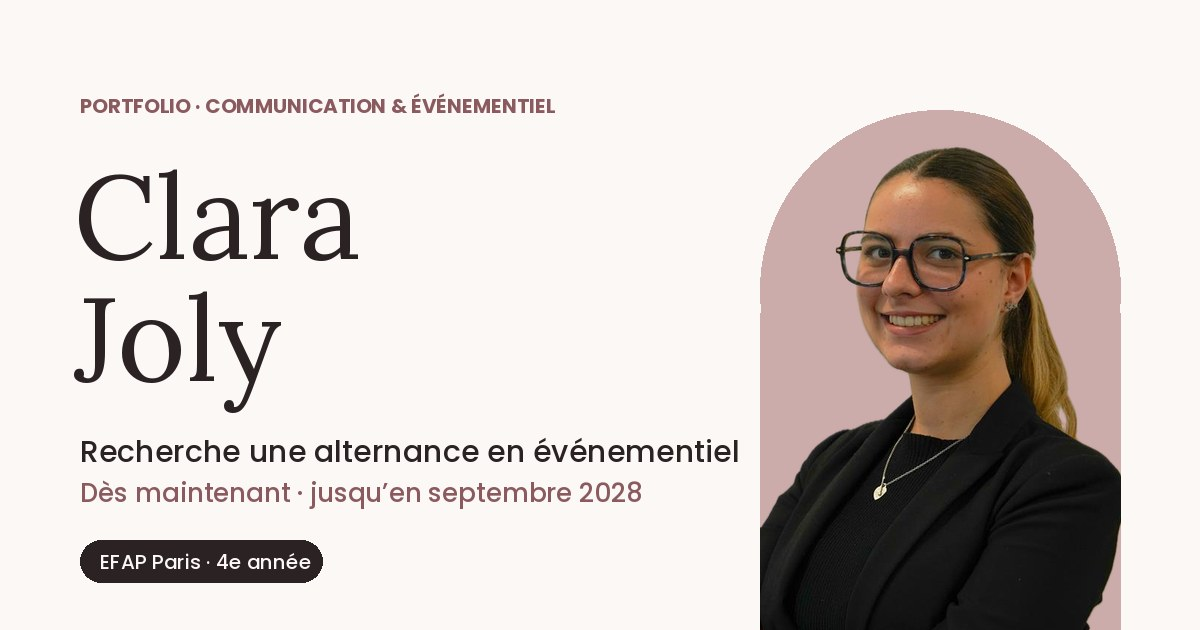
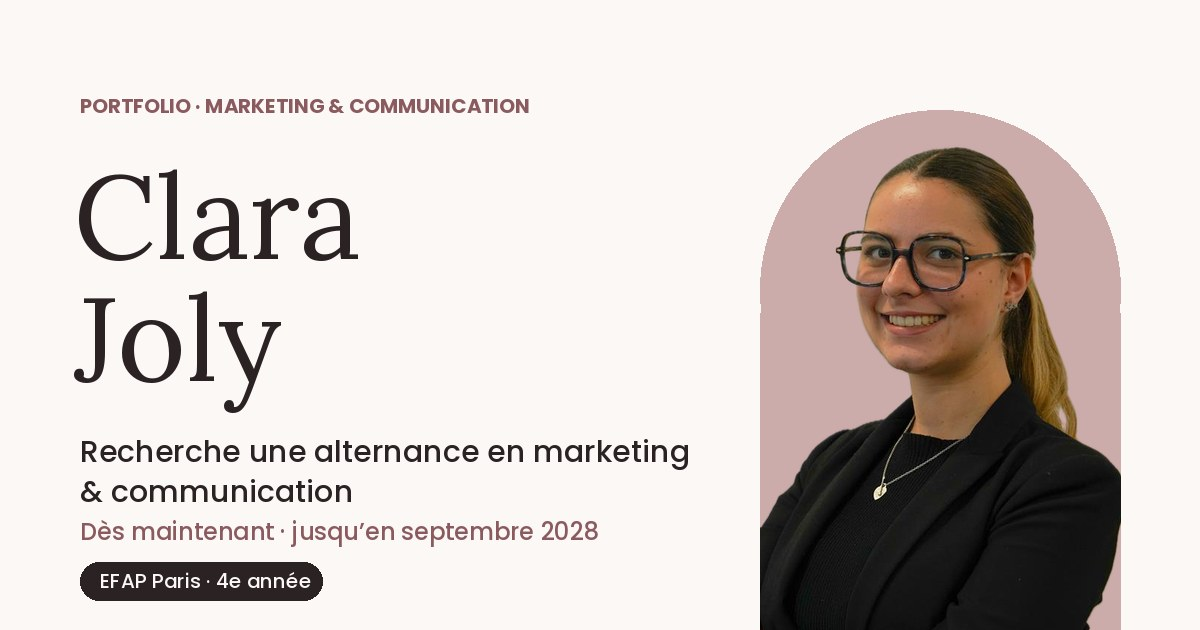
Add files via upload

Changed region(s): [[0.0617, 0.6937, 0.6167, 0.9651], [0.1542, 0.1508, 0.4625, 0.181]]

diff --git a/index.html b/index.html
@@ -4,10 +4,10 @@
 <meta charset="UTF-8">
 <meta name="viewport" content="width=device-width, initial-scale=1.0, viewport-fit=cover">
 <title>Clara Joly Portfolio</title>
-<meta name="description" content="Portfolio de Clara Joly — événementiel, communication et community management. Étudiante en 4e année à l'EFAP Paris, en alternance chez Astonfly.">
+<meta name="description" content="Portfolio de Clara Joly — marketing, communication, community management et événementiel. Étudiante en 4e année à l'EFAP Paris, en alternance chez Astonfly.">
 <meta property="og:type" content="website">
 <meta property="og:title" content="Clara Joly · Portfolio">
-<meta property="og:description" content="Recherche une alternance en événementiel, dès maintenant et jusqu’en septembre 2028. Étudiante en 4e année à l’EFAP Paris.">
+<meta property="og:description" content="Recherche une alternance en marketing et communication, dès maintenant et jusqu’en septembre 2028. Étudiante en 4e année à l’EFAP Paris.">
 <meta property="og:url" content="https://clara-joly.vercel.app/">
 <meta property="og:image" content="https://clara-joly.vercel.app/og-image.jpg">
 <meta property="og:image:width" content="1200">
@@ -450,18 +450,18 @@ section.block + section.block{border-top:1px solid var(--line)}
 
 <main>
 <div class="marquee" aria-hidden="true">
-  <div class="marquee-track"><div class="mq-group"><span class="mq-word">Communication</span><span class="mq-sep"></span><span class="mq-word">Marketing</span><span class="mq-sep"></span><span class="mq-word">Événementiel</span><span class="mq-sep"></span></div><div class="mq-group"><span class="mq-word">Communication</span><span class="mq-sep"></span><span class="mq-word">Marketing</span><span class="mq-sep"></span><span class="mq-word">Événementiel</span><span class="mq-sep"></span></div><div class="mq-group"><span class="mq-word">Communication</span><span class="mq-sep"></span><span class="mq-word">Marketing</span><span class="mq-sep"></span><span class="mq-word">Événementiel</span><span class="mq-sep"></span></div><div class="mq-group"><span class="mq-word">Communication</span><span class="mq-sep"></span><span class="mq-word">Marketing</span><span class="mq-sep"></span><span class="mq-word">Événementiel</span><span class="mq-sep"></span></div></div>
+  <div class="marquee-track"><div class="mq-group"><span class="mq-word">Marketing</span><span class="mq-sep"></span><span class="mq-word">Communication</span><span class="mq-sep"></span><span class="mq-word">Digital</span><span class="mq-sep"></span><span class="mq-word">Événementiel</span><span class="mq-sep"></span></div><div class="mq-group"><span class="mq-word">Marketing</span><span class="mq-sep"></span><span class="mq-word">Communication</span><span class="mq-sep"></span><span class="mq-word">Digital</span><span class="mq-sep"></span><span class="mq-word">Événementiel</span><span class="mq-sep"></span></div><div class="mq-group"><span class="mq-word">Marketing</span><span class="mq-sep"></span><span class="mq-word">Communication</span><span class="mq-sep"></span><span class="mq-word">Digital</span><span class="mq-sep"></span><span class="mq-word">Événementiel</span><span class="mq-sep"></span></div><div class="mq-group"><span class="mq-word">Marketing</span><span class="mq-sep"></span><span class="mq-word">Communication</span><span class="mq-sep"></span><span class="mq-word">Digital</span><span class="mq-sep"></span><span class="mq-word">Événementiel</span><span class="mq-sep"></span></div></div>
 </div>
 
 <section class="hero" id="accueil">
   <div class="wrap hero-grid">
     <div>
-      <p class="eyebrow">Portfolio · Communication &amp; Événementiel</p>
+      <p class="eyebrow">Portfolio · Marketing &amp; Communication</p>
       <h1>Clara<br>Joly</h1>
-      <p class="role">Recherche une alternance en événementiel <br><em>Jusqu’en septembre 2028</em></p>
+      <p class="role">Recherche une alternance en marketing &amp; communication <br><em>Jusqu’en septembre 2028</em></p>
     </div>
     <div class="hero-side">
-      <p class="about">Étudiante de 21 ans en 4ᵉ année à l’EFAP Paris en Communication &amp; Marketing, je suis actuellement en alternance et souhaite poursuivre mon parcours dans le secteur de l’événementiel jusqu’en septembre 2028.</p>
+      <p class="about">Étudiante de 21 ans en 4ᵉ année à l’EFAP Paris en Communication &amp; Marketing, je suis actuellement en alternance et souhaite poursuivre mon parcours en marketing et communication jusqu’en septembre 2028.</p>
       <div class="facts">
         <div class="fact"><b>Dès maintenant</b><span>Disponible pour démarrer</span></div>
         <div class="fact"><b>3 sem. / 1 sem.</b><span>Rythme entreprise / école</span></div>
@@ -485,7 +485,7 @@ section.block + section.block{border-top:1px solid var(--line)}
     <ol>
       <li><a data-go="a-propos" role="link" tabindex="0"><span class="n">01</span><span><span class="t">À propos</span><span class="d">Qui je suis, mon parcours, mes objectifs</span></span></a></li>
       <li><a data-go="experiences" role="link" tabindex="0"><span class="n">02</span><span><span class="t">Expériences</span><span class="d">Astonfly, Clair Group, Jourdan, ASCORA</span></span></a></li>
-      <li><a data-go="projets-pro" role="link" tabindex="0"><span class="n">03</span><span><span class="t">Projets professionnels</span><span class="d">Film, cérémonies, gala, réseaux sociaux</span></span></a></li>
+      <li><a data-go="projets-pro" role="link" tabindex="0"><span class="n">03</span><span><span class="t">Projets professionnels</span><span class="d">Réseaux sociaux, film, cérémonies, gala</span></span></a></li>
       <li><a data-go="projets-efap" role="link" tabindex="0"><span class="n">04</span><span><span class="t">Projets EFAP</span><span class="d">Be Nuts, refonte UI/UX, CV vidéo</span></span></a></li>
       <li><a data-go="competences" role="link" tabindex="0"><span class="n">05</span><span><span class="t">Compétences</span><span class="d">Événementiel, communication, outils</span></span></a></li>
       <li><a data-go="formation" role="link" tabindex="0"><span class="n">06</span><span><span class="t">Formation</span><span class="d">De l’EFAP au brevet des collèges</span></span></a></li>
@@ -514,19 +514,19 @@ section.block + section.block{border-top:1px solid var(--line)}
       <h2>Enchantée, je suis Clara</h2>
       <div class="motivation">
         <p class="motivation-label">Pourquoi je recherche une nouvelle alternance</p>
-        <p>Je recherche une <strong>alternance jusqu’en septembre 2028</strong> pour vivre une nouvelle aventure professionnelle. Mes stages et mon alternance actuelle m’ont énormément appris : organiser des événements de A à Z, coordonner des équipes et des prestataires, communiquer auprès d’une communauté.</p>
+        <p>Je recherche une <strong>alternance jusqu’en septembre 2028</strong> pour vivre une nouvelle aventure professionnelle. Mes stages et mon alternance actuelle m’ont énormément appris : créer des contenus et animer des réseaux sociaux, gérer un projet digital, organiser des événements de A à Z et communiquer auprès d’une communauté.</p>
         <p>Aujourd’hui, j’ai envie d’aller plus loin : découvrir <strong>un nouveau secteur, de nouvelles missions et un nouveau cadre de travail</strong>, au sein d’une équipe avec laquelle je pourrai continuer à évoluer. Mon ambition me pousse à me dépasser et à me challenger, pour mettre mes compétences au service de nouveaux projets.</p>
         <p>C’est cette motivation qui m’amène à tenter ma chance ailleurs. J’espère avoir l’occasion d’échanger prochainement avec vous au sujet de ma candidature.</p>
         <a class="btn btn-ink" data-go="contact" role="link" tabindex="0">Échanger avec moi
           <svg viewBox="0 0 24 24" fill="none" stroke="currentColor" stroke-width="2.2" stroke-linecap="round" aria-hidden="true"><path d="M5 12h14M13 6l6 6-6 6"/></svg></a>
       </div>
-      <p class="about-lead">Étudiante de 21 ans en 4ᵉ année à l’EFAP Paris en Communication &amp; Marketing, je suis actuellement en alternance et souhaite poursuivre mon parcours dans le secteur de l’événementiel jusqu’en septembre 2028.</p>
+      <p class="about-lead">Étudiante de 21 ans en 4ᵉ année à l’EFAP Paris en Communication &amp; Marketing, je suis actuellement en alternance et souhaite poursuivre mon parcours en marketing et communication jusqu’en septembre 2028.</p>
       <p>Après une première année de licence en Sciences Économiques et Sociales à l’Université Paris Cité, j’ai rejoint l’EFAP en 2023. En parallèle, mes stages chez Jourdan puis Clair Group m’ont fait découvrir la communication digitale, la création de contenus et l’organisation de salons et de portes ouvertes.</p>
       <p>Depuis août 2026, je suis Community and Event Coordinator chez Astonfly, école de pilotage : j’y organise les cérémonies, le gala, les rentrées et les événements de la vie étudiante, et je pilote la refonte de la plateforme carrière Astonjob.</p>
       <dl class="about-facts">
         <div><dt>École</dt><dd>EFAP Paris · 4ᵉ année</dd></div>
         <div><dt>Alternance actuelle</dt><dd>Astonfly</dd></div>
-        <div><dt>Objectif</dt><dd>Alternance dans l’événementiel, jusqu’en sept. 2028</dd></div>
+        <div><dt>Objectif</dt><dd>Alternance en marketing &amp; communication, jusqu’en sept. 2028</dd></div>
         <div><dt>Langues</dt><dd>Français, anglais B2-C1, espagnol A2</dd></div>
       </dl>
     </div>
@@ -538,7 +538,7 @@ section.block + section.block{border-top:1px solid var(--line)}
   <div class="wrap">
     <div class="sec-head">
       <div><p class="eyebrow">02 · Parcours professionnel</p><h2>Expériences</h2></div>
-      <p>De l’administratif à la coordination d’événements : chaque expérience m’a appris à organiser, communiquer et tenir les délais.</p>
+      <p>Du marketing digital à l’événementiel : chaque expérience m’a appris à créer, communiquer et organiser.</p>
     </div>
 
     <article class="exp-feature">
@@ -550,8 +550,13 @@ section.block + section.block{border-top:1px solid var(--line)}
         </div>
         <p class="date">août 2026 – aujourd’hui</p>
       </div>
-      <p class="exp-intro">Au sein d’Astonfly, école de pilotage, je coordonne les événements qui rythment l’année des élèves et j’anime la communauté des pilotes et des Alumni. Mon rôle couvre toute la chaîne : conception, invitations, logistique, coordination le jour J, puis amélioration des formats d’une édition à l’autre.</p>
+      <p class="exp-intro">Au sein d’Astonfly, école de pilotage, mon poste est à la croisée du community management, du projet digital et de l’événementiel : j’anime la communauté des élèves, des pilotes et des Alumni, je pilote la refonte de la plateforme carrière Astonjob et je coordonne les événements qui rythment l’année.</p>
       <div class="missions">
+        <div class="mission wide">
+          <span class="freq">Projet digital</span>
+          <h4>Plateforme carrière Astonjob</h4>
+          <p>Piloter la refonte et assurer la gestion quotidienne d’Astonjob, la plateforme carrière dédiée aux pilotes et aux Alumni Astonfly : réflexion sur l’expérience utilisateur, mise à jour des contenus et suivi de la plateforme.</p>
+        </div>
         <div class="mission">
           <span class="freq">Vie étudiante</span>
           <h4>Afterworks, masterclasses &amp; podcast</h4>
@@ -572,15 +577,10 @@ section.block + section.block{border-top:1px solid var(--line)}
           <h4>Rentrées des élèves</h4>
           <p>Accompagner chaque rentrée : accueil des élèves, communication, semaine d’intégration et logistique. La rentrée de septembre, la plus importante, accueille 60 élèves.</p>
         </div>
-        <div class="mission wide">
-          <span class="freq">Projet digital</span>
-          <h4>Plateforme carrière Astonjob</h4>
-          <p>Piloter la refonte et assurer la gestion quotidienne d’Astonjob, la plateforme carrière dédiée aux pilotes et aux Alumni Astonfly : réflexion sur l’expérience utilisateur, mise à jour des contenus et suivi de la plateforme.</p>
-        </div>
       </div>
       <div class="exp-foot">
         <div class="chips">
-          <span class="chip">Organisation d’événements</span><span class="chip">Coordination de prestataires</span><span class="chip">Logistique</span><span class="chip">Community management</span><span class="chip">UX</span>
+          <span class="chip">Community management</span><span class="chip">Projet digital &amp; UX</span><span class="chip">Communication</span><span class="chip">Organisation d’événements</span><span class="chip">Coordination de prestataires</span>
         </div>
         <a class="btn btn-ink" data-go="projets-pro" role="link" tabindex="0">Voir les projets associés
           <svg viewBox="0 0 24 24" fill="none" stroke="currentColor" stroke-width="2.2" stroke-linecap="round" aria-hidden="true"><path d="M5 12h14M13 6l6 6-6 6"/></svg></a>
@@ -608,7 +608,7 @@ section.block + section.block{border-top:1px solid var(--line)}
         <div class="exp-body">
           <p class="poste">Assistante Communication &amp; Marketing</p>
           <h3>Clair Group</h3>
-          <p>Un stage tourné vers la communication digitale et l’événementiel, entre création de contenus et organisation de rendez-vous avec le public.</p>
+          <p>Un stage tourné vers le marketing digital : gestion des réseaux sociaux, création de contenus photo et vidéo, et organisation de salons et de portes ouvertes.</p>
           <ul class="tasks">
             <li><b>Réseaux sociaux</b>Gestion des comptes et publication des contenus.</li>
             <li><b>Contenus photo &amp; vidéo</b>Couverture des événements en photo et en vidéo pour alimenter la communication.</li>
@@ -664,12 +664,36 @@ section.block + section.block{border-top:1px solid var(--line)}
   <div class="wrap">
     <div class="sec-head">
       <div><p class="eyebrow">03 · Sur le terrain</p><h2>Projets professionnels</h2></div>
-      <p>Des événements et des contenus menés pour Astonfly, pendant mon stage chez Clair Group puis mon alternance. Cliquez sur une image pour l’agrandir et sur « Regarder » pour voir la vidéo.</p>
+      <p>Des contenus marketing et des événements menés pour Astonfly, pendant mon stage chez Clair Group puis mon alternance. Cliquez sur une image pour l’agrandir et sur « Regarder » pour voir la vidéo.</p>
     </div>
 
     <article class="project">
       <div class="p-head">
         <span class="p-num">01</span>
+        <div class="p-title"><span class="tag">Clair Group · Réseaux sociaux</span><h3>Contenus vidéo pour les réseaux sociaux</h3><p class="ctx">Réalisé pendant mon stage chez Clair Group, pour Astonfly</p></div>
+      </div>
+      <div class="p-body">
+        <div class="p-text">
+          <h4>Le projet</h4>
+          <p>J’ai créé et participé à plusieurs contenus vidéo pour les réseaux sociaux de l’école. En voici un exemple.</p>
+          <h4>Ma contribution</h4>
+          <ul>
+            <li>Participation devant la caméra</li>
+            <li>Aide sur certains montages simples</li>
+          </ul>
+        </div>
+        <div class="video-stack single">
+        <a class="video-card" href="https://youtube.com/shorts/XP-OaA6UpWM" target="_blank" rel="noopener">
+          <img class="vc-thumb" src="https://i.ytimg.com/vi/XP-OaA6UpWM/oardefault.jpg" alt="" onerror="if(!this.dataset.f){this.dataset.f=1;this.src='https://i.ytimg.com/vi/XP-OaA6UpWM/hqdefault.jpg'}else{this.remove()}">
+          <span class="play"><svg viewBox="0 0 24 24" fill="currentColor" aria-hidden="true"><path d="M8 5v14l11-7z"/></svg></span>
+          <span class="vc-text"><b>Un exemple en vidéo</b><br><span>Regarder sur YouTube</span></span>
+        </a>
+        </div>
+      </div>
+    </article>
+    <article class="project">
+      <div class="p-head">
+        <span class="p-num">02</span>
         <div class="p-title"><span class="tag">Clair Group · Vidéo</span><h3>Film promotionnel Astonfly</h3><p class="ctx">Réalisé pendant mon stage chez Clair Group, pour Astonfly</p></div>
         <a class="btn btn-ink" href="https://youtu.be/JbFjWgKtJbI" target="_blank" rel="noopener">
           <svg viewBox="0 0 24 24" fill="currentColor" aria-hidden="true"><path d="M8 5v14l11-7z"/></svg>Regarder</a>
@@ -694,10 +718,9 @@ section.block + section.block{border-top:1px solid var(--line)}
         </div>
       </div>
     </article>
-
     <article class="project">
       <div class="p-head">
-        <span class="p-num">02</span>
+        <span class="p-num">03</span>
         <div class="p-title"><span class="tag">Astonfly · Cérémonie</span><h3>Remise des ailes</h3><p class="ctx">Réalisé pendant mon alternance chez Astonfly</p></div>
         <a class="btn btn-ink" href="https://www.instagram.com/reel/DalE_XSjorS/" target="_blank" rel="noopener">
           <svg viewBox="0 0 24 24" fill="currentColor" aria-hidden="true"><path d="M8 5v14l11-7z"/></svg>Regarder</a>
@@ -719,10 +742,9 @@ section.block + section.block{border-top:1px solid var(--line)}
         </div>
       </div>
     </article>
-
     <article class="project">
       <div class="p-head">
-        <span class="p-num">03</span>
+        <span class="p-num">04</span>
         <div class="p-title"><span class="tag">Clair Group · Soirée</span><h3>Gala annuel Astonfly</h3><p class="ctx">Réalisé pendant mon stage chez Clair Group, pour Astonfly</p></div>
         <a class="btn btn-ink" href="https://www.instagram.com/reel/DLF1urQtIv7/" target="_blank" rel="noopener">
           <svg viewBox="0 0 24 24" fill="currentColor" aria-hidden="true"><path d="M8 5v14l11-7z"/></svg>Regarder</a>
@@ -742,31 +764,6 @@ section.block + section.block{border-top:1px solid var(--line)}
         <figure class="shot nat"><button type="button" data-cap="Animation musicale pendant le gala Astonfly"><img src="images/photo-5.jpg" loading="lazy" decoding="async" alt="Saxophoniste sur scène au gala Astonfly"><span class="zoom">Agrandir</span></button></figure>
       </div>
     </article>
-
-    <article class="project">
-      <div class="p-head">
-        <span class="p-num">04</span>
-        <div class="p-title"><span class="tag">Clair Group · Réseaux sociaux</span><h3>Contenus vidéo pour les réseaux sociaux</h3><p class="ctx">Réalisé pendant mon stage chez Clair Group, pour Astonfly</p></div>
-      </div>
-      <div class="p-body">
-        <div class="p-text">
-          <h4>Le projet</h4>
-          <p>J’ai créé et participé à plusieurs contenus vidéo pour les réseaux sociaux de l’école. En voici un exemple.</p>
-          <h4>Ma contribution</h4>
-          <ul>
-            <li>Participation devant la caméra</li>
-            <li>Aide sur certains montages simples</li>
-          </ul>
-        </div>
-        <div class="video-stack single">
-        <a class="video-card" href="https://youtube.com/shorts/XP-OaA6UpWM" target="_blank" rel="noopener">
-          <img class="vc-thumb" src="https://i.ytimg.com/vi/XP-OaA6UpWM/oardefault.jpg" alt="" onerror="if(!this.dataset.f){this.dataset.f=1;this.src='https://i.ytimg.com/vi/XP-OaA6UpWM/hqdefault.jpg'}else{this.remove()}">
-          <span class="play"><svg viewBox="0 0 24 24" fill="currentColor" aria-hidden="true"><path d="M8 5v14l11-7z"/></svg></span>
-          <span class="vc-text"><b>Un exemple en vidéo</b><br><span>Regarder sur YouTube</span></span>
-        </a>
-        </div>
-      </div>
-    </article>
   </div>
 </section>
 
@@ -775,13 +772,13 @@ section.block + section.block{border-top:1px solid var(--line)}
   <div class="wrap">
     <div class="sec-head">
       <div><p class="eyebrow">04 · En école</p><h2>Projets EFAP</h2></div>
-      <p>Des projets menés pendant ma formation à l’EFAP, entre marketing, vidéo et design d’interface.</p>
+      <p>Des projets menés pendant ma formation à l’EFAP, entre marketing, contenu vidéo et design d’interface.</p>
     </div>
 
     <article class="project">
       <div class="p-head">
         <span class="p-num">01</span>
-        <div class="p-title"><span class="tag">EFAP · Marketing événementiel</span><h3>Mail d’invitation vidéo pour Be Nuts</h3></div>
+        <div class="p-title"><span class="tag">EFAP · Marketing &amp; brand content</span><h3>Mail d’invitation vidéo pour Be Nuts</h3></div>
         <a class="btn btn-ink" href="https://youtu.be/rs_axSPut1k" target="_blank" rel="noopener">
           <svg viewBox="0 0 24 24" fill="currentColor" aria-hidden="true"><path d="M8 5v14l11-7z"/></svg>Regarder</a>
       </div>
@@ -855,22 +852,17 @@ section.block + section.block{border-top:1px solid var(--line)}
   <div class="wrap">
     <div class="sec-head">
       <div><p class="eyebrow">05 · Savoir-faire</p><h2>Compétences</h2></div>
-      <p>Ce que je mets en pratique au quotidien, du terrain événementiel aux outils de création.</p>
+      <p>Ce que je mets en pratique au quotidien, du marketing digital au terrain événementiel.</p>
     </div>
     <div class="skill-tabs" role="tablist" aria-label="Catégories de compétences">
-      <button type="button" role="tab" aria-selected="true" data-tab="0">Événementiel</button>
-      <button type="button" role="tab" aria-selected="false" data-tab="1">Communication</button>
-      <button type="button" role="tab" aria-selected="false" data-tab="2">Outils</button>
+      <button type="button" role="tab" aria-selected="true" data-tab="0">Marketing</button>
+      <button type="button" role="tab" aria-selected="false" data-tab="1">Outils</button>
+      <button type="button" role="tab" aria-selected="false" data-tab="2">Événementiel</button>
     </div>
     <div class="skills" data-tab="0">
       <div class="skill-col">
-        <h3>Événementiel</h3>
-        <div class="skill"><b>Organisation d’événements</b><p>Cérémonies de remise des ailes, remises des diplômes, gala annuel, afterworks et masterclasses chez Astonfly ; salons et portes ouvertes chez Clair Group.</p></div>
-        <div class="skill"><b>Coordination de prestataires</b><p>Recherche de lieux, consultation des prestataires et suivi jusqu’au jour J.</p></div>
-        <div class="skill"><b>Gestion logistique</b><p>Préparation des espaces, protocole, accueil des invités et organisation des 4 rentrées annuelles.</p></div>
-      </div>
-      <div class="skill-col">
-        <h3>Communication &amp; digital</h3>
+        <h3>Marketing &amp; communication</h3>
+        <div class="skill"><b>Création de contenus</b><p>Vidéos pour les réseaux sociaux, affiches et visuels, CV vidéo en motion design, invitation vidéo pour Be Nuts.</p></div>
         <div class="skill"><b>Stratégie de communication</b><p>Formats et calendriers de publication pensés en lien avec les objectifs de l’école.</p></div>
         <div class="skill"><b>Community management &amp; réseaux sociaux</b><p>Gestion de comptes, création de contenus photo et vidéo, animation de la communauté des élèves et Alumni.</p></div>
         <div class="skill"><b>Gestion de projet digital</b><p>Refonte de plateforme et UX : pilotage de la refonte d’Astonjob, refonte UI/UX d’une page Prime Video.</p></div>
@@ -882,8 +874,14 @@ section.block + section.block{border-top:1px solid var(--line)}
         <div class="skill"><b>Outils d’IA</b><p>Génération de contenu et retouche d’images.</p></div>
         <div class="skill"><b>Pack Office</b><p>Rédaction de documents et supports de présentation.</p>
           <div class="logos"><i>Word</i><i>PowerPoint</i></div></div>
-        <div class="skill"><b>Permis B</b><p>Mobile pour les déplacements liés aux événements.</p></div>
+        <div class="skill"><b>Permis B</b><p>Mobile pour les déplacements professionnels.</p></div>
+      </div>      <div class="skill-col">
+        <h3>Événementiel</h3>
+        <div class="skill"><b>Organisation d’événements</b><p>Cérémonies de remise des ailes, remises des diplômes, gala annuel, afterworks et masterclasses chez Astonfly ; salons et portes ouvertes chez Clair Group.</p></div>
+        <div class="skill"><b>Coordination de prestataires</b><p>Recherche de lieux, consultation des prestataires et suivi jusqu’au jour J.</p></div>
+        <div class="skill"><b>Gestion logistique</b><p>Préparation des espaces, protocole, accueil des invités et organisation des 4 rentrées annuelles.</p></div>
       </div>
+
     </div>
   </div>
 </section>
@@ -936,7 +934,7 @@ section.block + section.block{border-top:1px solid var(--line)}
 <footer class="contact" id="contact">
   <div class="wrap">
     <p class="eyebrow">08 · Contact</p>
-    <p class="lead">Vous cherchez une alternante motivée pour vos événements ?<br>Je serai ravie d’échanger avec vous.</p>
+    <p class="lead">Vous cherchez une alternante motivée en marketing et communication ?<br>Je serai ravie d’échanger avec vous.</p>
     <div class="contact-grid">
       <div>
         <p class="name">Clara</p>
